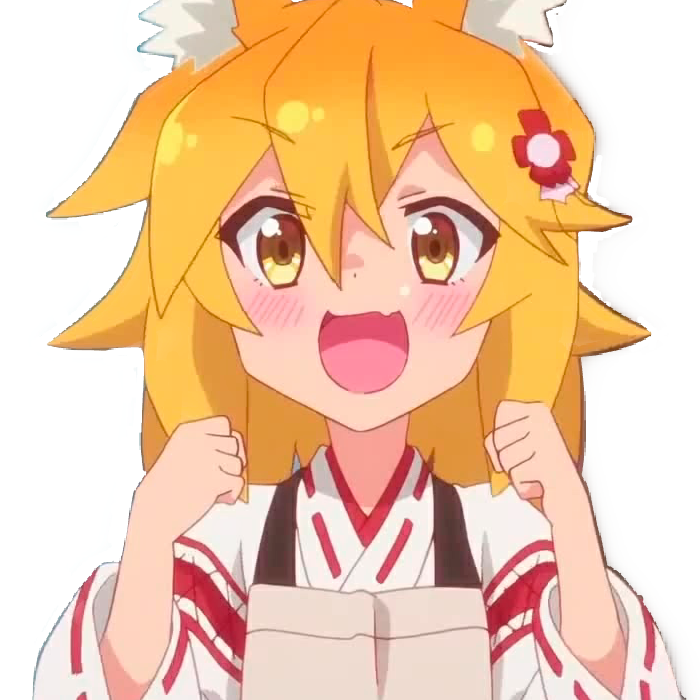
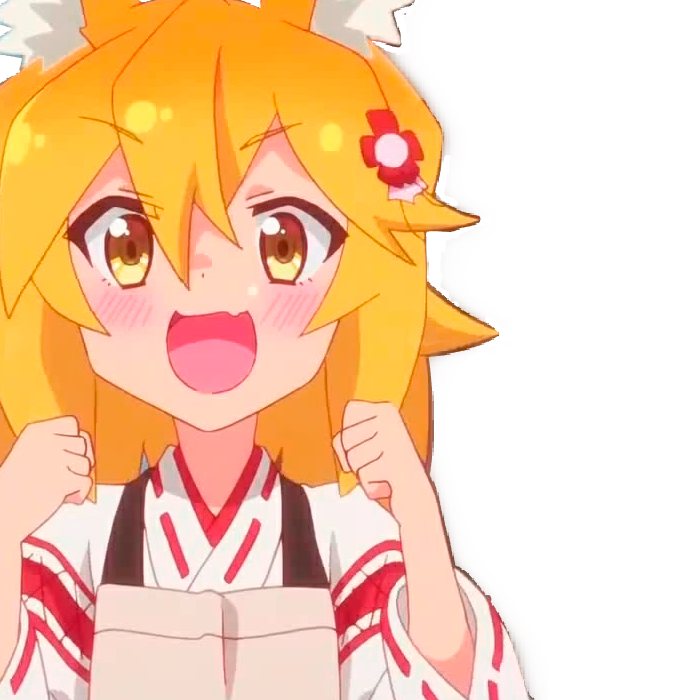
newBackgroundImages

diff --git a/FoxGenerator/styles.css b/FoxGenerator/styles.css
@@ -12,13 +12,14 @@ body {
 	font-family: 'Quicksand', sans-serif;
 	height: 100vh;
 	margin: 0;
-	background: url(./images/SenkoAnalyze1000.png) center center no-repeat, url(./images/SenkoHype700.png) left bottom no-repeat, url(./images/SenkoHappy400.png) right bottom no-repeat, beige;
+	background: url(./images/SenkoAnalyze1000.png) center center no-repeat, url(./images/SenkoHype700.png) left center no-repeat, url(./images/SenkoHappy700.png) right bottom no-repeat, beige;
 	background-size: auto;
 }
 
 img {
-	max-width: 550px;
-	max-height: 400px;
+	max-width: 60vw;
+	max-height: 60vh;
+
 	border-radius: 30px;
 }
 
@@ -64,11 +65,3 @@ header {
 	justify-content: center;
 	margin-bottom: 2%;
 }
-
-@media only screen and (max-width: 600px) {
-    img {
-			max-width: 70vw;
-			max-height: 70vh;
-			border-radius: 30px;
-		}
-  }
